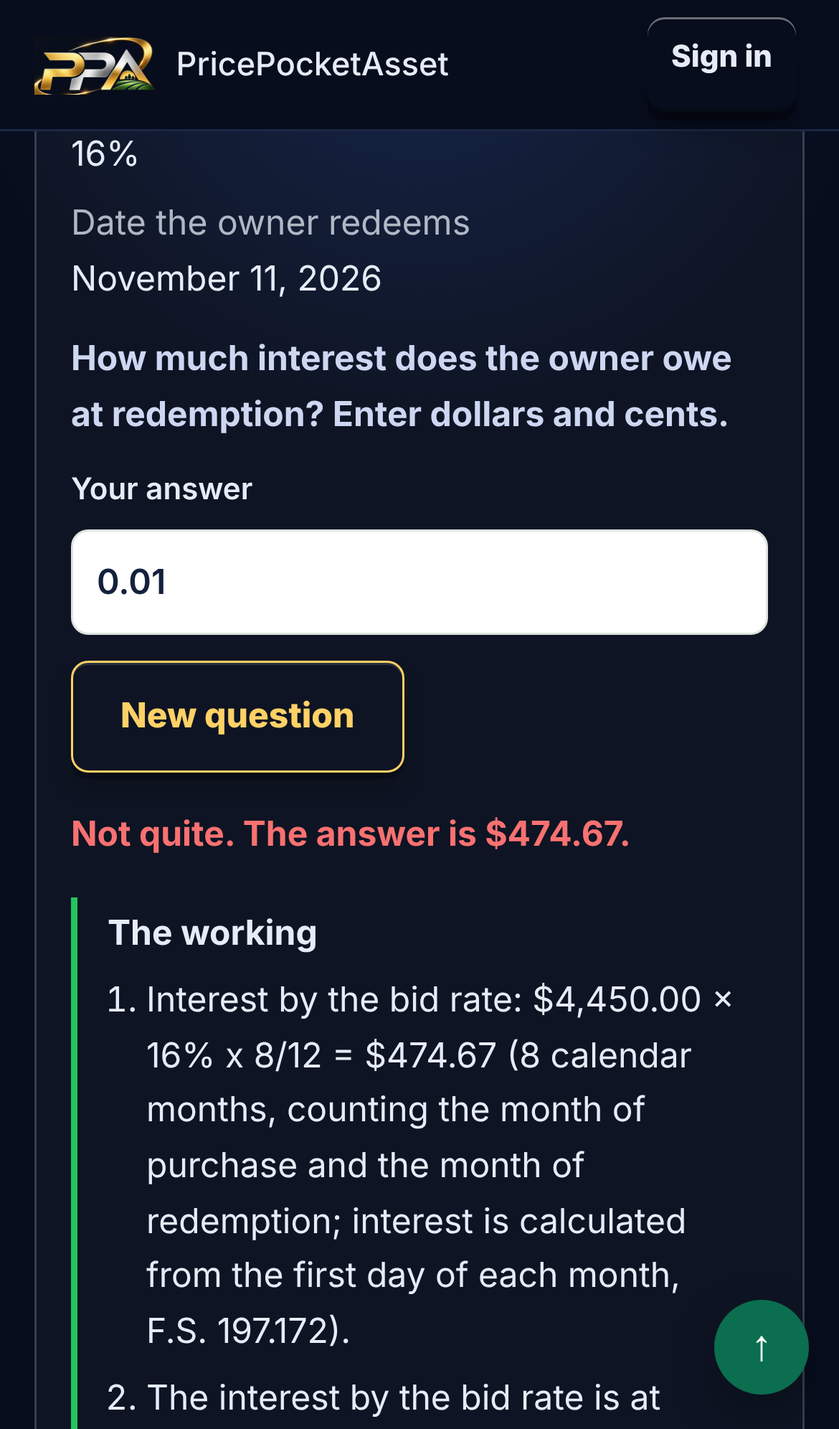
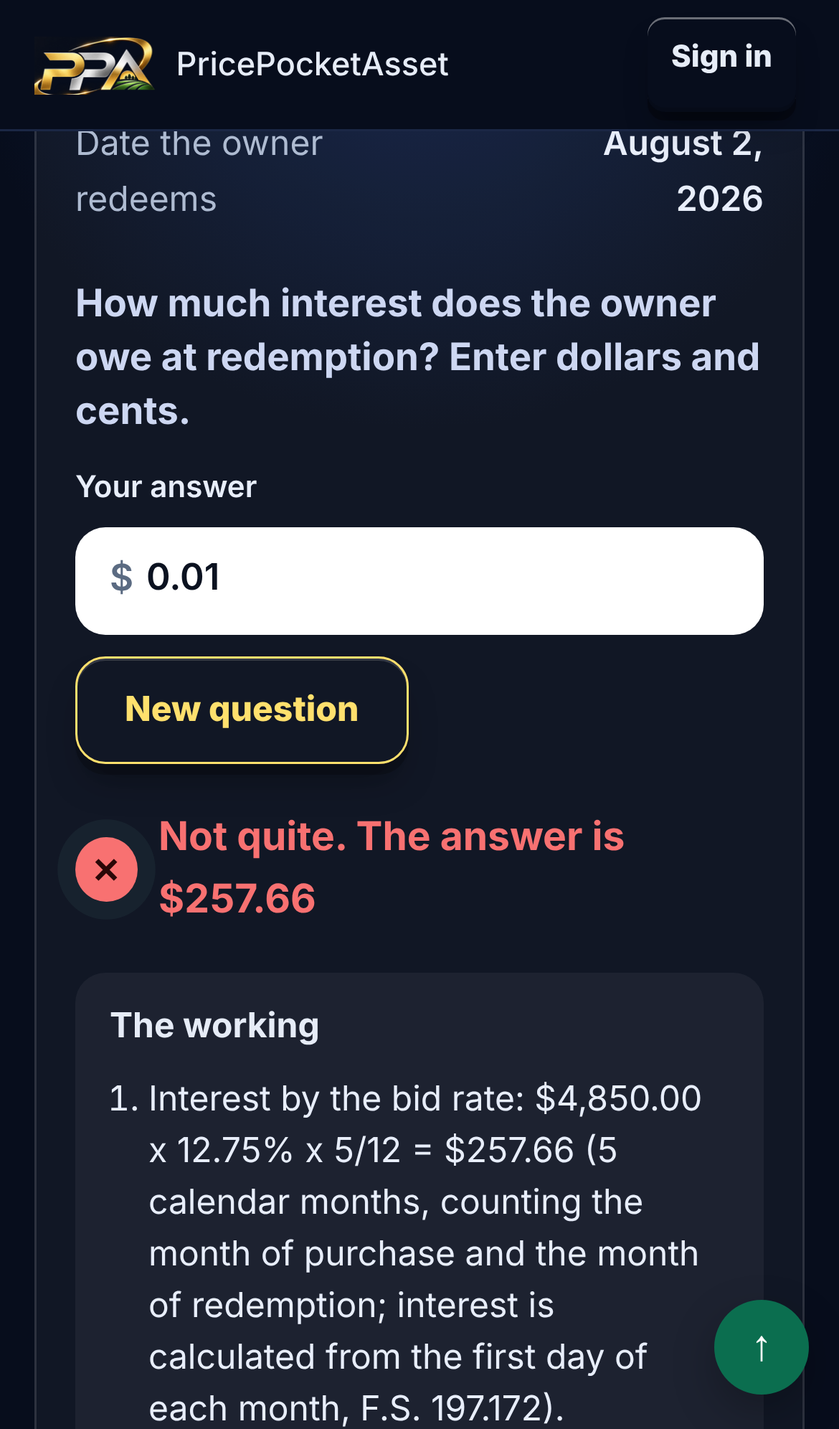
Master Class pages: Apple-style polish (segmented path tabs, progress ring, smooth accordions, skeleton loading, sticky search with highlights, numbered steps), accessibility checks
Claude-Session: https://claude.ai/code/session_01DFHtjmid2Bu3LDfb8VC1gp

diff --git a/kinvest-liens/styles.css b/kinvest-liens/styles.css
@@ -1524,32 +1524,71 @@ body.loginpg #msg:empty{display:none}
 .a2hs ol{margin:0 0 0 20px;padding:0}.a2hs li{margin:4px 0;line-height:1.45}
 .a2hs p{margin:6px 0 12px}
 
-/* Master Class hub pages: glossary, paths, drills, county guides */
-.mchub .gsearch{display:block;margin:12px 0;font-weight:600}
-.mchub .gsearch input,.mchub .gsearch select{display:block;width:100%;max-width:520px;min-height:44px;margin-top:6px;font-size:16px}
-.gchips{display:flex;flex-wrap:wrap;gap:8px;margin:8px 0}
-.gchips .chip{min-height:44px;padding:8px 14px;border-radius:99px;border:1px solid rgba(128,140,160,.45);background:transparent;color:inherit;cursor:pointer;font:inherit}
-.gchips .chip.on{background:#0b6e4f;border-color:#0b6e4f;color:#fff}
-.gl2 dt{font-weight:700}.gl2 dd{margin:2px 0 14px}
-.gtag{display:inline-block;margin-left:8px;font-size:.7rem;font-weight:600;padding:1px 8px;border-radius:99px;border:1px solid currentColor;opacity:.8}.gtag.st{color:#b45309}
-.pathgrid{display:grid;grid-template-columns:repeat(auto-fit,minmax(240px,1fr));gap:14px;margin:14px 0}
-.pathcard{border:1px solid rgba(128,140,160,.35);border-radius:14px;padding:14px}.pathcard h3{margin:0 0 6px}.pathcard .btn{margin:6px 8px 0 0}
-.pbar{height:8px;border-radius:99px;background:rgba(128,140,160,.25);overflow:hidden;margin:8px 0}.pbar span{display:block;height:100%;background:#22c55e;border-radius:99px}
-.chlist{list-style:none;margin:0;padding:0}.chlist>li{border:1px solid rgba(128,140,160,.3);border-radius:12px;margin:8px 0;padding:0 14px}
-.chlist summary{cursor:pointer;min-height:48px;display:flex;flex-wrap:wrap;align-items:center;gap:6px}
-.chles{margin:6px 0 10px 18px;padding:0}.chles li{margin:6px 0;line-height:1.45}
-.drcard{border:1px solid rgba(128,140,160,.35);border-radius:14px;padding:16px;margin:14px 0}
-.drfacts{display:grid;gap:6px;margin:8px 0}.drfacts div{display:grid;grid-template-columns:minmax(120px,40%) 1fr;gap:10px}.drfacts dt{opacity:.75}.drfacts dd{margin:0}
-.drq{font-weight:700;margin:12px 0}.drbtns{display:flex;flex-wrap:wrap;gap:8px;margin:10px 0}
-.drwork{border-left:3px solid #22c55e;padding:4px 14px;margin:10px 0}.drwork ol{margin:6px 0 0 18px;padding:0}.drwork li{margin:6px 0}
+/* Master Class hub pages: glossary, paths, drills, county guides (Apple-style: calm, large targets, soft motion) */
+@property --p{syntax:'<number>';inherits:false;initial-value:0}
+.mchub{--mc-bg:rgba(255,255,255,.045);--mc-bg2:rgba(255,255,255,.075);--mc-line:rgba(255,255,255,.12);--mc-text:#e8eefb;--mc-mute:#aebbd1;max-width:760px;scroll-behavior:smooth}
+.mchub h2{font-size:1.35rem;letter-spacing:-.01em;margin:28px 0 10px;color:var(--mc-text)}.mchub h3{font-size:1.05rem;margin:22px 0 8px;color:var(--mc-text)}
+.mchub .muted,.mchub .small.muted{color:var(--mc-mute)}
+.mchub a{text-underline-offset:3px}
+/* loading skeleton */
+.skel{display:grid;gap:12px;margin:14px 0}.skel i{display:block;height:64px;border-radius:16px;background:linear-gradient(100deg,rgba(255,255,255,.05) 30%,rgba(255,255,255,.12) 50%,rgba(255,255,255,.05) 70%);background-size:300% 100%;animation:mcshim 1.4s ease-in-out infinite}.skel i:first-child{height:44px;width:70%}
+@keyframes mcshim{from{background-position:100% 0}to{background-position:0 0}}
+/* controls */
+.mchub .gsearch{display:block;margin:12px 0;font-weight:600;color:var(--mc-text)}
+.mchub .gsearch input,.mchub .gsearch select{display:block;width:100%;max-width:none;min-height:50px;margin-top:6px;font-size:17px;border-radius:14px;border:1px solid var(--mc-line);padding:0 16px;background:#fff;color:#0b1220;box-shadow:0 1px 0 rgba(255,255,255,.4) inset;transition:box-shadow .2s,border-color .2s}
+.mchub .gsearch input:focus,.mchub .gsearch select:focus{outline:0;border-color:#22c55e;box-shadow:0 0 0 4px rgba(34,197,94,.28)}
+.gchips{display:flex;gap:8px;margin:10px 0;overflow-x:auto;padding:2px 2px 6px;scrollbar-width:none;-webkit-overflow-scrolling:touch}.gchips::-webkit-scrollbar{display:none}
+.gchips .chip{flex:none;min-height:44px;padding:0 16px;border-radius:99px;border:1px solid var(--mc-line);background:var(--mc-bg);color:var(--mc-text);cursor:pointer;font:600 15px/1 inherit;transition:background .2s,color .2s,transform .12s,border-color .2s}
+.gchips .chip:active{transform:scale(.96)}.gchips .chip.on{background:#fff;color:#0b1220;border-color:#fff}
+.seg{display:grid;grid-template-columns:repeat(3,1fr);gap:4px;padding:4px;border-radius:16px;background:rgba(255,255,255,.08);margin:14px 0}
+.seg button{min-height:46px;border:0;border-radius:12px;background:transparent;color:#cbd6ea;font:600 15px/1 inherit;cursor:pointer;transition:background .25s,color .25s,box-shadow .25s,transform .12s}
+.seg button:active{transform:scale(.97)}.seg button[aria-selected=true]{background:#fff;color:#0b1220;box-shadow:0 2px 10px rgba(0,0,0,.35)}
+/* path summary */
+.psum{display:grid;grid-template-columns:76px 1fr;gap:16px;align-items:center;padding:16px;border-radius:20px;background:var(--mc-bg);border:1px solid var(--mc-line);margin:10px 0 6px}
+.ring{--p:0;width:76px;height:76px;border-radius:50%;display:grid;place-items:center;background:conic-gradient(#22c55e calc(var(--p)*1%),rgba(255,255,255,.14) 0);transition:--p .9s cubic-bezier(.2,.8,.2,1);position:relative}
+.ring::before{content:'';position:absolute;inset:7px;border-radius:50%;background:#0a1226}.ring b{position:relative;font-size:1.05rem;color:var(--mc-text)}
+.psum h3{margin:0 0 4px;font-size:1.25rem}.psum p{margin:0 0 10px;line-height:1.45}.psum .drbtns{margin:0}
+/* chapters */
+.chlist{list-style:none;margin:0;padding:0}.chlist>li{border:0;margin:0;padding:0}
+.ch{border:1px solid var(--mc-line);border-radius:18px;background:var(--mc-bg);margin:10px 0;overflow:hidden;transition:border-color .25s,background .25s,opacity .25s,transform .12s}
+.ch[open]{background:var(--mc-bg2);border-color:rgba(255,255,255,.2)}.ch.off{opacity:.5}.ch:active{transform:scale(.995)}
+.ch summary{list-style:none;display:grid;grid-template-columns:40px 1fr 18px;gap:14px;align-items:center;min-height:68px;padding:12px 16px;cursor:pointer;-webkit-tap-highlight-color:transparent}
+.ch summary::-webkit-details-marker{display:none}
+.ch summary::after{content:'';grid-column:3;width:9px;height:9px;border-right:2px solid var(--mc-mute);border-bottom:2px solid var(--mc-mute);transform:rotate(45deg);transition:transform .3s cubic-bezier(.2,.8,.2,1);justify-self:end;margin-top:-4px}
+.ch[open] summary::after{transform:rotate(225deg);margin-top:4px}
+.chn{width:40px;height:40px;border-radius:50%;display:grid;place-items:center;font-weight:700;background:rgba(255,255,255,.1);color:var(--mc-text);transition:background .3s,color .3s}.ch.done .chn{background:#22c55e;color:#06210f}
+.cht{display:block;font-weight:650;color:var(--mc-text);line-height:1.3}.chm{display:block;font-size:.85rem;color:var(--mc-mute);margin-top:3px}
+.chbody{padding:0 12px 14px}.ch[open] .chbody{animation:mcdrop .32s cubic-bezier(.2,.8,.2,1)}
+@keyframes mcdrop{from{opacity:0;transform:translateY(-8px)}to{opacity:1;transform:none}}
+.chcov{font-size:.85rem;color:var(--mc-mute);margin:2px 6px 8px;line-height:1.45}
+.mchub a.les{display:flex;gap:12px;align-items:flex-start;min-height:52px;padding:12px;border-radius:14px;color:var(--mc-text)!important;text-decoration:none!important;transition:background .15s}.mchub div.les{display:flex;gap:12px;align-items:flex-start;min-height:52px;padding:12px;border-radius:14px}
+.mchub a.les::after{content:'\203A';margin-left:auto;align-self:center;font-size:1.4rem;color:var(--mc-mute)}.les .ic{color:#4ade80}.les.lock .ic{color:inherit}
+.les:active,.les:hover{background:rgba(255,255,255,.08)}.les .ic{flex:none;width:22px;text-align:center;margin-top:1px}.les.lock{color:var(--mc-mute)}
+.mchub a.chlink{display:inline-flex;align-items:center;min-height:44px;padding:0 6px}
+.les .lm{display:block;font-size:.82rem;color:var(--mc-mute)}.chlink{display:inline-flex;align-items:center;min-height:44px;padding:0 6px;color:#f5c542}
+/* drills */
+.drcard{border:1px solid var(--mc-line);border-radius:22px;padding:18px;margin:14px 0;background:var(--mc-bg)}
+.drfacts{display:block;margin:10px 0}.drfacts div{display:flex;justify-content:space-between;gap:16px;padding:11px 0;border-bottom:1px solid var(--mc-line)}.drfacts div:last-child{border-bottom:0}.drfacts dt{color:var(--mc-mute)}.drfacts dd{margin:0;text-align:right;font-weight:600;color:var(--mc-text)}
+.drq{font-weight:700;font-size:1.1rem;line-height:1.4;margin:14px 0 6px;color:var(--mc-text)}
+.drbtns{display:flex;flex-wrap:wrap;gap:10px;margin:12px 0}.drbtns .btn{min-height:50px;border-radius:14px;padding:0 22px;transition:transform .12s,opacity .2s}.drbtns .btn:active{transform:scale(.97)}
+.drres{margin-top:12px;animation:mcpop .35s cubic-bezier(.2,.8,.2,1)}@keyframes mcpop{from{opacity:0;transform:translateY(10px) scale(.98)}to{opacity:1;transform:none}}
+.drverdict{display:flex;align-items:center;gap:10px;font-size:1.15rem;font-weight:700}.drverdict .dot{width:30px;height:30px;border-radius:50%;display:grid;place-items:center;font-size:1rem}.drverdict.good .dot{background:#22c55e;color:#06210f}.drverdict.bad .dot{background:#f87171;color:#2a0707}
+.drwork{border-radius:14px;background:rgba(255,255,255,.05);padding:12px 16px;margin:12px 0}.drwork ol{margin:8px 0 0 18px;padding:0}.drwork li{margin:8px 0;line-height:1.5;color:var(--mc-text)}
 .mchub .good{color:#4ade80;font-weight:700}.mchub .bad{color:#f87171;font-weight:700}
-.chlist details,.chlist details[open]{background:transparent!important;color:inherit!important;border:0!important;box-shadow:none!important;padding:0!important}
-.chlist summary,.chlist summary b,.chlist details p,.chlist details li{color:inherit!important}
-.chlist .muted,.chlist summary .small{color:#b8c4d6!important}
-.gl2 dd,.gl2 dt{color:inherit}
-.drcard,.pathcard{background:rgba(255,255,255,.03)}
-.drtable{border-collapse:collapse;width:100%;font-size:.9rem}.drtable th,.drtable td{border-bottom:1px solid rgba(128,140,160,.3);padding:8px 6px;text-align:left}
-.cty{margin:8px 0 14px 18px;padding:0}.cty li{margin:8px 0;line-height:1.45}
-@media(max-width:560px){.drfacts div{grid-template-columns:1fr;gap:0}}
-.mchub h2,.mchub h3{color:#e6edf7}
-.mchub .notice{color:#e6edf7}
+.drtable{border-collapse:separate;border-spacing:0;width:100%;font-size:.92rem;border:1px solid var(--mc-line);border-radius:14px;overflow:hidden}.drtable th{background:rgba(255,255,255,.06);color:var(--mc-mute);font-weight:600}.drtable th,.drtable td{padding:11px 10px;text-align:left;border-bottom:1px solid var(--mc-line)}.drtable tr:last-child td{border-bottom:0}
+.moneyin{display:block;position:relative;margin-top:6px}.moneyin>span{position:absolute;left:16px;top:50%;transform:translateY(-50%);color:#5b6b82;font-size:17px;pointer-events:none}.moneyin input{padding-left:32px!important;margin-top:0!important}
+/* glossary */
+.gstick{position:sticky;top:0;z-index:5;margin:0 -16px;padding:6px 16px 4px;background:rgba(7,13,28,.78);-webkit-backdrop-filter:blur(16px) saturate(1.4);backdrop-filter:blur(16px) saturate(1.4)}
+.gl2{margin:0}.gl2>div{padding:16px 2px;border-bottom:1px solid var(--mc-line);animation:mcdrop .3s both}.gl2 dt{font-weight:700;font-size:1.05rem;color:var(--mc-text)}.gl2 dd{margin:6px 0 0;line-height:1.55;color:#d3dcee}
+.gtag{display:inline-block;margin-left:10px;font-size:.72rem;font-weight:650;padding:2px 9px;border-radius:99px;background:rgba(255,255,255,.1);color:var(--mc-mute);vertical-align:2px}.gtag.st{background:rgba(245,197,66,.16);color:#f5c542}
+.mchub mark{background:rgba(245,197,66,.3);color:inherit;border-radius:4px;padding:0 2px}
+/* county */
+.cty{list-style:none;margin:8px 0 14px;padding:0}.cty li{margin:0}
+.rowlink{display:flex;justify-content:space-between;align-items:center;gap:12px;min-height:54px;padding:8px 16px;border:1px solid var(--mc-line);border-radius:16px;margin:8px 0;background:var(--mc-bg);color:var(--mc-text);text-decoration:none;transition:background .15s,transform .12s}
+.rowlink::after{content:'\203A';font-size:1.5rem;line-height:1;color:var(--mc-mute)}.rowlink:active{transform:scale(.99);background:var(--mc-bg2)}
+.steps{list-style:none;counter-reset:st;margin:8px 0;padding:0}.steps li{counter-increment:st;position:relative;padding:14px 14px 14px 58px;border:1px solid var(--mc-line);border-radius:16px;margin:10px 0;background:var(--mc-bg);line-height:1.55;color:var(--mc-text)}
+.steps li::before{content:counter(st);position:absolute;left:14px;top:12px;width:32px;height:32px;border-radius:50%;display:grid;place-items:center;font-weight:700;background:#22c55e;color:#06210f}
+.sale{display:flex;gap:14px;align-items:center;padding:12px 14px;border:1px solid var(--mc-line);border-radius:16px;margin:8px 0;background:var(--mc-bg)}.sale .d{flex:none;width:54px;text-align:center;border-radius:12px;background:rgba(255,255,255,.09);padding:6px 0;line-height:1.1}.sale .d b{display:block;font-size:1.3rem}.sale .d span{font-size:.7rem;text-transform:uppercase;color:var(--mc-mute)}
+.mchub .notice{color:var(--mc-text);border-radius:14px}
+@media(max-width:560px){.mchub{padding-left:16px;padding-right:16px}.psum{grid-template-columns:64px 1fr}.ring{width:64px;height:64px}}
+@media(prefers-reduced-motion:reduce){.skel i,.ch[open] .chbody,.drres,.gl2>div{animation:none}.ring,.ch,.seg button,.gchips .chip,.drbtns .btn,.rowlink{transition:none}.mchub{scroll-behavior:auto}}

diff --git a/kinvest-liens/learn/paths/paths.js b/kinvest-liens/learn/paths/paths.js
@@ -1,33 +1,39 @@
 (function () {
   const app = document.getElementById('app'), Q = new URLSearchParams(location.search);
   const mk = (t, c, x) => { const e = document.createElement(t); if (c) e.className = c; if (x != null) e.textContent = x; return e; };
-  let cid = (Q.get('c') || 'fl').toLowerCase();
-  function lessonLink(l) { return '/learn/course/?c=' + cid + '&l=' + encodeURIComponent(l.id); }
-  function bar(done, total) { const b = mk('div', 'pbar'); b.setAttribute('role', 'progressbar'); b.setAttribute('aria-valuemin', '0'); b.setAttribute('aria-valuemax', String(total)); b.setAttribute('aria-valuenow', String(done)); const i = mk('span'); i.style.width = (total ? Math.round(100 * done / total) : 0) + '%'; b.appendChild(i); return b; }
-  function render(d) {
-    app.textContent = '';
-    const sel = mk('label', 'gsearch', 'State course'); const s = mk('select'); d.courses.forEach(c => { const o = mk('option', '', c.state); o.value = c.id; if (c.id === d.course.id) o.selected = true; s.appendChild(o); }); sel.appendChild(s); s.addEventListener('change', () => { cid = s.value; history.replaceState(null, '', '?c=' + cid); load(); }); app.appendChild(sel);
-    app.appendChild(mk('p', 'small muted', d.course.title + ' · last checked ' + d.course.checked + (d.signedIn ? '' : ' · sign in to save your progress')));
-    const pg = mk('div', 'pathgrid');
-    d.paths.forEach(p => {
-      const c = mk('article', 'pathcard'), h = mk('h3', '', p.title); c.append(h, mk('p', 'small', p.blurb), bar(p.done, p.total), mk('p', 'small muted', p.done + ' of ' + p.total + ' lessons · about ' + p.mins + ' min · chapters ' + p.chapters.join(', ')));
-      const first = d.chapters.filter(x => p.chapters.includes(x.n)).flatMap(x => x.lessons).find(l => !l.done && (l.free || d.paid)) || d.chapters.find(x => x.n === p.chapters[0]).lessons[0];
-      const a = mk('a', 'btn small', p.done ? (p.done >= p.total ? 'Review' : 'Continue') : 'Start'); a.href = lessonLink(first); c.appendChild(a);
-      const dr = mk('a', 'btn small ghost', 'Drills: level ' + p.drillLevel); dr.href = '/learn/drills/?level=' + p.drillLevel; c.appendChild(dr); pg.appendChild(c);
-    });
-    app.appendChild(pg); app.appendChild(mk('h2', '', 'The ten chapters'));
-    const ol = mk('ol', 'chlist');
-    d.chapters.forEach(ch => {
-      const li = mk('li'), det = mk('details'); const sm = mk('summary'); sm.appendChild(mk('b', '', ch.n + '. ' + ch.title)); sm.appendChild(mk('span', 'small muted', '  ' + ch.doneCount + '/' + ch.total + ' lessons' + (ch.drills ? ' + drills' : ''))); det.appendChild(sm);
-      det.appendChild(mk('p', 'small muted', 'Covered in: ' + ch.modules.map(m => m.title).join('; ') + (ch.foundations ? '. For the general idea of liens versus deeds, also see the Foundations lessons.' : '')));
-      const ul = mk('ul', 'chles'); ch.lessons.forEach(l => { const it = mk('li'); const locked = !l.free && !d.paid; const a = mk(locked ? 'span' : 'a', '', (l.done ? '✓ ' : locked ? '🔒 ' : '') + l.title + ' (' + l.mins + ' min)'); if (!locked) a.href = lessonLink(l); else a.className = 'muted'; it.appendChild(a); ul.appendChild(it); }); det.appendChild(ul);
-      if (ch.foundations) { const f = mk('a', 'small', 'Foundations: how liens and deeds work →'); f.href = '/learn/'; det.appendChild(f); }
-      if (ch.drills) { const f = mk('a', 'small', 'Practice with calculation drills →'); f.href = '/learn/drills/'; det.appendChild(f); }
-      li.appendChild(det); ol.appendChild(li);
-    });
-    app.appendChild(ol);
-    if (!d.paid) app.appendChild(mk('p', 'notice small', 'Module 1 of every course is free. The lessons marked with a lock are for members. You can see the full map and your path before you join.'));
+  const NAMES = { FL: 'Florida', TX: 'Texas', AZ: 'Arizona', IA: 'Iowa', MI: 'Michigan', CO: 'Colorado' };
+  let cid = (Q.get('c') || 'fl').toLowerCase(), sel = Q.get('p') || 'beginner', data = null;
+  const lessonLink = l => '/learn/course/?c=' + cid + '&l=' + encodeURIComponent(l.id);
+  const url = () => history.replaceState(null, '', '?c=' + cid + '&p=' + sel);
+  function summary(d, p) {
+    const box = mk('section', 'psum'); const pct = p.total ? Math.round(100 * p.done / p.total) : 0;
+    const ring = mk('div', 'ring'); ring.style.setProperty('--p', '0'); ring.setAttribute('role', 'img'); ring.setAttribute('aria-label', pct + ' percent complete'); ring.appendChild(mk('b', '', pct + '%')); requestAnimationFrame(() => requestAnimationFrame(() => ring.style.setProperty('--p', String(pct))));
+    const t = mk('div'); t.append(mk('h3', '', p.title + ' path'), mk('p', 'small muted', p.blurb), mk('p', 'small muted', p.done + ' of ' + p.total + ' lessons · about ' + p.mins + ' min · chapters ' + p.chapters.join(', ')));
+    const first = d.chapters.filter(x => p.chapters.includes(x.n)).flatMap(x => x.lessons).find(l => !l.done && (l.free || d.paid)) || d.chapters.find(x => x.n === p.chapters[0]).lessons[0];
+    const bt = mk('p', 'drbtns'), a = mk('a', 'btn', p.done >= p.total ? 'Review' : p.done ? 'Continue' : 'Start'); a.href = lessonLink(first); const dr = mk('a', 'btn ghost', 'Drills: level ' + p.drillLevel); dr.href = '/learn/drills/?level=' + p.drillLevel; bt.append(a, dr); t.appendChild(bt);
+    box.append(ring, t); return box;
   }
-  function load() { fetch('/.netlify/functions/learnhub?paths=1&c=' + encodeURIComponent(cid), { credentials: 'same-origin' }).then(r => r.ok ? r.json() : Promise.reject()).then(render).catch(() => { app.textContent = 'Could not load the learning paths. Please try again.'; }); }
+  function chapter(d, ch, p) {
+    const inPath = p.chapters.includes(ch.n), done = ch.total && ch.doneCount >= ch.total;
+    const det = mk('details', 'ch' + (inPath ? '' : ' off') + (done ? ' done' : '')); det.dataset.n = ch.n;
+    const sm = mk('summary'); const n = mk('span', 'chn', done ? '✓' : String(ch.n)); const tx = mk('span'); tx.append(mk('span', 'cht', ch.title), mk('span', 'chm', ch.doneCount + ' of ' + ch.total + ' lessons · ' + ch.mins + ' min' + (inPath ? '' : ' · not in this path') + (ch.drills ? ' · drills' : ''))); sm.append(n, tx); det.appendChild(sm);
+    const body = mk('div', 'chbody'); body.appendChild(mk('p', 'chcov', 'Covered in: ' + ch.modules.map(m => m.title).join('; ') + (ch.foundations ? '. For the general idea of liens versus deeds, also see the Foundations lessons.' : '')));
+    ch.lessons.forEach(l => { const locked = !l.free && !d.paid; const r = mk(locked ? 'div' : 'a', 'les' + (locked ? ' lock' : '')); if (!locked) r.href = lessonLink(l); const ic = mk('span', 'ic', l.done ? '✓' : locked ? '🔒' : '○'); const tx2 = mk('span'); tx2.append(document.createTextNode(l.title), mk('span', 'lm', l.mins + ' min' + (locked ? ' · members' : ''))); r.append(ic, tx2); body.appendChild(r); });
+    if (ch.foundations) { const f = mk('a', 'chlink', 'Foundations: how liens and deeds work →'); f.href = '/learn/'; body.appendChild(f); }
+    if (ch.drills) { const f = mk('a', 'chlink', 'Practice with calculation drills →'); f.href = '/learn/drills/'; body.appendChild(f); }
+    det.appendChild(body); return det;
+  }
+  function render(d) {
+    data = d; app.textContent = '';
+    const lab = mk('label', 'gsearch', 'State course'); const s = mk('select'); d.courses.forEach(c => { const o = mk('option', '', NAMES[c.state] || c.state); o.value = c.id; if (c.id === d.course.id) o.selected = true; s.appendChild(o); }); lab.appendChild(s); s.addEventListener('change', () => { cid = s.value; url(); load(); }); app.appendChild(lab);
+    app.appendChild(mk('p', 'small muted', d.course.title + ' · last checked ' + d.course.checked + (d.signedIn ? '' : ' · sign in to save your progress')));
+    const seg = mk('div', 'seg'); seg.setAttribute('role', 'tablist'); seg.setAttribute('aria-label', 'Learning path');
+    const slot = mk('div'), list = mk('ol', 'chlist');
+    const draw = () => { const p = d.paths.find(x => x.id === sel) || d.paths[0]; sel = p.id; slot.textContent = ''; slot.appendChild(summary(d, p)); const open = new Set([...list.querySelectorAll('details[open]')].map(x => x.dataset.n)); list.textContent = ''; d.chapters.forEach(ch => { const li = mk('li'), det = chapter(d, ch, p); if (open.has(String(ch.n))) det.open = true; li.appendChild(det); list.appendChild(li); }); seg.querySelectorAll('button').forEach(b => b.setAttribute('aria-selected', String(b.dataset.id === sel))); };
+    d.paths.forEach(p => { const b = mk('button', '', p.title); b.type = 'button'; b.dataset.id = p.id; b.setAttribute('role', 'tab'); b.addEventListener('click', () => { sel = p.id; url(); draw(); }); seg.appendChild(b); });
+    app.append(seg, slot, mk('h2', '', 'The ten chapters'), list); draw();
+    if (!d.paid) app.appendChild(mk('p', 'notice small', 'Module 1 of every course is free. Lessons marked with a lock are for members. You can see the full map and your path before you join.'));
+  }
+  function load() { app.textContent = ''; const sk = mk('div', 'skel'); sk.innerHTML = '<i></i><i></i><i></i>'; app.appendChild(sk); fetch('/.netlify/functions/learnhub?paths=1&c=' + encodeURIComponent(cid), { credentials: 'same-origin' }).then(r => r.ok ? r.json() : Promise.reject()).then(render).catch(() => { app.textContent = 'Could not load the learning paths. Please try again.'; }); }
   load();
 })();

diff --git a/kinvest-liens/learn/glossary/glossary.js b/kinvest-liens/learn/glossary/glossary.js
@@ -7,29 +7,33 @@
   function filter(q) {
     const t = norm(q).trim(), words = t.split(/\s+/).filter(Boolean);
     return all.filter(e => scope === 'all' || e.scope === scope).map(e => {
-      const term = norm(e.term), hay = term + ' ' + norm(e.def); let s = 0;
-      if (!words.length) return { e, s: 0 };
+      const term = norm(e.term), hay = term + ' ' + norm(e.def); let s = 0; if (!words.length) return { e, s: 0 };
       if (term === t) s += 100; else if (term.startsWith(t)) s += 50; else if (term.includes(t)) s += 30;
-      for (const w of words) { if (hay.includes(w)) s += 5; else return null; }
-      return { e, s };
+      for (const w of words) { if (hay.includes(w)) s += 5; else return null; } return { e, s };
     }).filter(Boolean).sort((a, b) => b.s - a.s || a.e.term.localeCompare(b.e.term)).map(x => x.e);
   }
+  // safe highlighting: only text nodes and <mark> elements are created
+  function hl(el, text, words) {
+    if (!words.length) { el.appendChild(document.createTextNode(text)); return; }
+    const re = new RegExp('(' + words.map(w => w.replace(/[.*+?^${}()|[\]\\]/g, '\\$&')).join('|') + ')', 'ig');
+    text.split(re).forEach((part, i) => { if (i % 2) el.appendChild(mk('mark', '', part)); else if (part) el.appendChild(document.createTextNode(part)); });
+  }
   function draw() {
-    const q = $('gq').value, list = filter(q), out = $('gout'); out.textContent = '';
-    $('gcount').textContent = list.length + (list.length === 1 ? ' term' : ' terms') + (q ? ' match “' + q + '”' : '');
+    const q = $('gq').value, words = norm(q).split(/\s+/).filter(Boolean), list = filter(q), out = $('gout'); out.textContent = '';
+    $('gcount').textContent = list.length + (list.length === 1 ? ' term' : ' terms') + (q.trim() ? ' for “' + q.trim() + '”' : '');
     if (!list.length) { out.appendChild(mk('p', 'muted', 'No term matches that. Try one word, such as “redemption”, “deed” or “bid”.')); return; }
-    const dl = mk('dl', 'mcgloss gl2');
-    list.forEach(e => { const d = mk('div'), dt = mk('dt', '', e.term); const tag = mk('span', 'gtag' + (e.scope === 'national' ? '' : ' st'), e.scope === 'national' ? 'General' : (NAMES[e.scope] || e.scope)); dt.appendChild(tag); const dd = mk('dd', '', e.def);
-      if (e.course) { const a = mk('a', 'small', ' From the ' + (NAMES[e.scope] || e.scope) + ' course' + (e.checked ? ' (checked ' + e.checked + ')' : '') + ' →'); a.href = '/learn/course/?c=' + e.course; dd.appendChild(a); }
+    const dl = mk('dl', 'gl2');
+    list.forEach((e, i) => { const d = mk('div'); d.style.animationDelay = Math.min(i, 8) * 25 + 'ms'; const dt = mk('dt'); hl(dt, e.term, words); dt.appendChild(mk('span', 'gtag' + (e.scope === 'national' ? '' : ' st'), e.scope === 'national' ? 'General' : (NAMES[e.scope] || e.scope))); const dd = mk('dd'); hl(dd, e.def, words);
+      if (e.course) { dd.appendChild(document.createTextNode(' ')); const a = mk('a', 'small', 'From the ' + (NAMES[e.scope] || e.scope) + ' course' + (e.checked ? ' (checked ' + e.checked + ')' : '') + ' →'); a.href = '/learn/course/?c=' + e.course; dd.appendChild(a); }
       d.append(dt, dd); dl.appendChild(d); });
     out.appendChild(dl);
   }
   fetch('/.netlify/functions/learnhub?glossary=1').then(r => r.json()).then(d => {
     all = d.terms; app.textContent = '';
-    const lab = mk('label', 'gsearch', 'Search terms'); const inp = mk('input'); inp.id = 'gq'; inp.type = 'search'; inp.placeholder = 'Try “redemption”'; inp.autocomplete = 'off'; inp.setAttribute('aria-controls', 'gout'); lab.appendChild(inp);
+    const st = mk('div', 'gstick'); const lab = mk('label', 'gsearch', 'Search terms'); const inp = mk('input'); inp.id = 'gq'; inp.type = 'search'; inp.placeholder = 'Try “redemption”'; inp.autocomplete = 'off'; inp.setAttribute('aria-controls', 'gout'); lab.appendChild(inp);
     const chips = mk('div', 'gchips'); chips.setAttribute('role', 'group'); chips.setAttribute('aria-label', 'Show terms for');
     [['all', 'Everything'], ['national', 'General'], ...d.states.filter(s => s !== 'national').sort().map(s => [s, NAMES[s] || s])].forEach(([k, t]) => { const b = mk('button', 'chip' + (k === scope ? ' on' : ''), t); b.type = 'button'; b.setAttribute('aria-pressed', String(k === scope)); b.addEventListener('click', () => { scope = k; chips.querySelectorAll('button').forEach(x => { const on = x === b; x.className = 'chip' + (on ? ' on' : ''); x.setAttribute('aria-pressed', String(on)); }); draw(); }); chips.appendChild(b); });
-    const cnt = mk('p', 'small muted'); cnt.id = 'gcount'; cnt.setAttribute('role', 'status'); const out = mk('div'); out.id = 'gout';
-    app.append(lab, chips, cnt, out); inp.addEventListener('input', draw); const pre = new URLSearchParams(location.search).get('q'); if (pre) inp.value = pre; draw();
+    st.append(lab, chips); const cnt = mk('p', 'small muted'); cnt.id = 'gcount'; cnt.setAttribute('role', 'status'); const out = mk('div'); out.id = 'gout';
+    app.append(st, cnt, out); inp.addEventListener('input', draw); const pre = new URLSearchParams(location.search).get('q'); if (pre) inp.value = pre; draw();
   }).catch(() => { app.textContent = 'Could not load the glossary. Please try again.'; });
 })();

diff --git a/kinvest-liens/learn/county/county.js b/kinvest-liens/learn/county/county.js
@@ -4,7 +4,7 @@
   const link = (t, u) => { const a = mk('a', '', t); a.href = u; if (/^https?:/.test(u)) { a.target = '_blank'; a.rel = 'noopener noreferrer'; } return a; };
   const fetchJ = u => fetch(u).then(r => r.ok ? r.json() : Promise.reject(r.status));
   function index() {
-    fetchJ('/.netlify/functions/learnhub?counties=1').then(d => { app.textContent = ''; app.appendChild(mk('h2', '', 'Choose a county')); const ul = mk('ul', 'cty'); d.counties.forEach(c => { const li = mk('li'); li.appendChild(link(c + ' County', '?c=' + encodeURIComponent(c))); li.firstChild.removeAttribute('target'); ul.appendChild(li); }); app.appendChild(ul); app.appendChild(mk('p', 'small muted', 'We only list counties where we have checked the office and the buying steps ourselves. More are added as we check them.')); }).catch(() => { app.textContent = 'Could not load the county list.'; });
+    fetchJ('/.netlify/functions/learnhub?counties=1').then(d => { app.textContent = ''; app.appendChild(mk('h2', '', 'Choose a county')); const ul = mk('div'); d.counties.forEach(c => { const a = mk('a', 'rowlink', c + ' County'); a.href = '?c=' + encodeURIComponent(c); ul.appendChild(a); }); app.appendChild(ul); app.appendChild(mk('p', 'small muted', 'We only list counties where we have checked the office and the buying steps ourselves. More are added as we check them.')); }).catch(() => { app.textContent = 'Could not load the county list.'; });
   }
   function page(c) {
     document.title = c.name + ' County guide | PricePocketAsset'; app.textContent = '';
@@ -12,11 +12,11 @@
     const dl = mk('dl', 'drfacts'); const row = (a, b) => { if (!b) return; const d = mk('div'); d.append(mk('dt', '', a), mk('dd', '', b)); dl.appendChild(d); };
     row('Office', c.office); row('Phone', c.phone); if (c.system) { row('System', c.system.sys); row('Interest or penalty', c.system.rate); row('Redemption', c.system.redemption); row('Bidding', c.system.bidding); } if (c.lists.length) row('Lien list on our site', c.lists[0].count.toLocaleString('en-US') + ' records');
     app.appendChild(dl); if (c.system && c.system.verify) app.appendChild(mk('p', 'notice small', 'Sources differ on this state’s rules, so treat the figures as unconfirmed and check the county.'));
-    app.appendChild(mk('h3', '', 'How to buy here, step by step')); const ol = mk('ol', 'chles'); c.steps.forEach(s => ol.appendChild(mk('li', '', s))); app.appendChild(ol);
-    app.appendChild(mk('h3', '', 'Official links')); const ul = mk('ul', 'cty'); c.links.concat(c.officialSites).forEach(l => { const li = mk('li'); li.appendChild(link(l.name, l.url)); ul.appendChild(li); }); if (c.calendar) { const li = mk('li'); li.appendChild(link(c.calendar.name + ' (sale calendar)', c.calendar.url)); ul.appendChild(li); } app.appendChild(ul);
+    app.appendChild(mk('h3', '', 'How to buy here, step by step')); const ol = mk('ol', 'steps'); c.steps.forEach(s => ol.appendChild(mk('li', '', s))); app.appendChild(ol);
+    app.appendChild(mk('h3', '', 'Official links')); const ul = mk('div'); c.links.concat(c.officialSites, c.calendar ? [{ name: c.calendar.name + ' (sale calendar)', url: c.calendar.url }] : []).forEach(l => { const a = link(l.name, l.url); a.className = 'rowlink'; ul.appendChild(a); }); app.appendChild(ul);
     app.appendChild(mk('h3', '', 'Upcoming sales on an official page')); if (c.upcoming.length) { const u2 = mk('ul', 'cty'); c.upcoming.forEach(e => { const li = mk('li'); li.appendChild(document.createTextNode(e.date + (e.time ? ' ' + e.time + ' ' + (e.tz || '') : '') + ' · ' + e.type + ' · ' + e.status + ' ')); if (e.page) li.appendChild(link('official page', e.page)); u2.appendChild(li); }); app.appendChild(u2); } else app.appendChild(mk('p', 'muted', 'No dated sale for this county is on our calendar right now. Check the official pages above.'));
     const more = mk('p', 'drbtns'); if (c.state) { const a = mk('a', 'btn small', c.stateName + ' state class'); a.href = '/liens/states/state/?s=' + c.state; more.appendChild(a); } if (c.course) { const a = mk('a', 'btn small', 'Full ' + c.stateName + ' course'); a.href = '/learn/course/?c=' + c.course.id; more.appendChild(a); const p = mk('a', 'btn small ghost', 'Learning paths'); p.href = '/learn/paths/?c=' + c.course.id; more.appendChild(p); } app.appendChild(more);
-    const idx = mk('a', 'small', '← All counties'); idx.href = '?'; app.appendChild(idx); c.notes.forEach(n => app.appendChild(mk('p', 'small muted', n)));
+    const idx = mk('a', 'chlink', '← All counties'); idx.href = '?'; app.appendChild(idx); c.notes.forEach(n => app.appendChild(mk('p', 'small muted', n)));
   }
   if (!name) index(); else fetchJ('/.netlify/functions/learnhub?county=' + encodeURIComponent(name)).then(d => page(d.county)).catch(() => { app.textContent = 'We do not have a guide for that county yet.'; });
 })();

diff --git a/kinvest-liens/learn/drills/drills.js b/kinvest-liens/learn/drills/drills.js
@@ -20,10 +20,10 @@
   }
   function card(q) {
     const c = mk('article', 'drcard'); c.append(mk('p', 'small muted', q.stateName + ' · ' + q.levelName + ' · ' + q.practice), facts(q), mk('p', 'drq', q.prompt));
-    const lab = mk('label', 'gsearch', 'Your answer'); const inp = mk('input'); inp.type = 'text'; inp.inputMode = q.kind === 'date' ? 'numeric' : 'decimal'; inp.autocomplete = 'off'; inp.placeholder = q.kind === 'date' ? 'YYYY-MM-DD' : 'for example 137.50'; lab.appendChild(inp);
+    const lab = mk('label', 'gsearch', 'Your answer'); const inp = mk('input'); inp.type = 'text'; inp.inputMode = q.kind === 'date' ? 'numeric' : 'decimal'; inp.autocomplete = 'off'; inp.placeholder = q.kind === 'date' ? 'YYYY-MM-DD' : '0.00'; if (q.kind === 'date') lab.appendChild(inp); else { const w = mk('span', 'moneyin'); w.append(mk('span', '', '$'), inp); lab.appendChild(w); }
     const go = mk('button', 'btn', 'Check my answer'), nx = mk('button', 'btn ghost', 'New question'); go.type = nx.type = 'button'; const out = mk('div'); out.setAttribute('role', 'status'); out.setAttribute('aria-live', 'polite');
     go.addEventListener('click', async () => { go.disabled = true; const r = await api('POST', { token: q.token, answer: inp.value }); go.disabled = false; out.textContent = ''; if (!r.ok) { out.appendChild(mk('p', 'bad', r.d.error || 'Could not check that.')); return; }
-      const d = r.d; out.appendChild(mk('p', d.correct ? 'good' : 'bad', d.correct ? 'Correct.' : 'Not quite. The answer is ' + (d.kind === 'date' ? d.answer : '$' + Number(d.answer).toFixed(2)) + '.')); out.appendChild(working(d)); out.appendChild(src(d.sources, d.verifiedOn, d.rulesLabel)); out.appendChild(mk('p', 'small muted', d.note)); info.progress = d.progress; go.hidden = true; inp.readOnly = true; const pg = document.getElementById('drprog'); if (pg) pg.replaceWith(Object.assign(progress(), { id: 'drprog' })); });
+      const d = r.d; const res = mk('div', 'drres'); const vd = mk('p', 'drverdict ' + (d.correct ? 'good' : 'bad')); vd.append(mk('span', 'dot', d.correct ? '\u2713' : '\u2715'), mk('span', '', d.correct ? 'Correct' : 'Not quite. The answer is ' + (d.kind === 'date' ? d.answer : '$' + Number(d.answer).toFixed(2)))); res.append(vd, working(d)); out.appendChild(res); res.appendChild(src(d.sources, d.verifiedOn, d.rulesLabel)); res.appendChild(mk('p', 'small muted', d.note)); info.progress = d.progress; go.hidden = true; inp.readOnly = true; const pg = document.getElementById('drprog'); if (pg) pg.replaceWith(Object.assign(progress(), { id: 'drprog' })); });
     nx.addEventListener('click', () => next()); inp.addEventListener('keydown', e => { if (e.key === 'Enter') go.click(); });
     c.append(lab, mk('p', 'drbtns'), out); c.querySelector('.drbtns').append(go, nx); return c;
   }

diff --git a/kinvest-liens/learn/drills/index.html b/kinvest-liens/learn/drills/index.html
@@ -26,7 +26,7 @@
   <p class="small"><a href="/learn/">&larr; Master Class</a></p>
   <h1 class="pfh">Calculation drills</h1>
   <p class="lead">Practice the math with made-up numbers. Each answer is checked against the state rules we read from the statute, and the working is shown.</p>
-  <div id="app" aria-live="polite"><p class="muted">Loading&hellip;</p></div>
+  <div id="app" aria-live="polite"><div class="skel" aria-hidden="true"><i></i><i></i><i></i></div></div>
   <p class="small muted">Educational only. Not legal, tax or investment advice. Verify with the county and the statute before you act.</p>
 </section>
 </main>

diff --git a/kinvest-liens/learn/county/index.html b/kinvest-liens/learn/county/index.html
@@ -26,7 +26,7 @@
   <p class="small"><a href="/learn/">&larr; Master Class</a></p>
   <h1 class="pfh">County guides</h1>
   <p class="lead">What we have checked for each county we cover: the office to contact, the steps to buy, official links and upcoming sales.</p>
-  <div id="app" aria-live="polite"><p class="muted">Loading&hellip;</p></div>
+  <div id="app" aria-live="polite"><div class="skel" aria-hidden="true"><i></i><i></i><i></i></div></div>
   <p class="small muted">Educational only. Not legal, tax or investment advice. Verify with the county and the statute before you act.</p>
 </section>
 </main>

diff --git a/kinvest-liens/learn/glossary/index.html b/kinvest-liens/learn/glossary/index.html
@@ -26,7 +26,7 @@
   <p class="small"><a href="/learn/">&larr; Master Class</a></p>
   <h1 class="pfh">Glossary</h1>
   <p class="lead">Search the words on every tax sale notice. National definitions first, then what each state course says its own terms mean.</p>
-  <div id="app" aria-live="polite"><p class="muted">Loading&hellip;</p></div>
+  <div id="app" aria-live="polite"><div class="skel" aria-hidden="true"><i></i><i></i><i></i></div></div>
   <p class="small muted">Educational only. Not legal, tax or investment advice. Verify with the county and the statute before you act.</p>
 </section>
 </main>

diff --git a/kinvest-liens/learn/paths/index.html b/kinvest-liens/learn/paths/index.html
@@ -26,7 +26,7 @@
   <p class="small"><a href="/learn/">&larr; Master Class</a></p>
   <h1 class="pfh">Learning paths</h1>
   <p class="lead">Pick a state and a path. Every state course follows the same ten chapters, so you always know where you are.</p>
-  <div id="app" aria-live="polite"><p class="muted">Loading&hellip;</p></div>
+  <div id="app" aria-live="polite"><div class="skel" aria-hidden="true"><i></i><i></i><i></i></div></div>
   <p class="small muted">Educational only. Not legal, tax or investment advice. Verify with the county and the statute before you act.</p>
 </section>
 </main>
